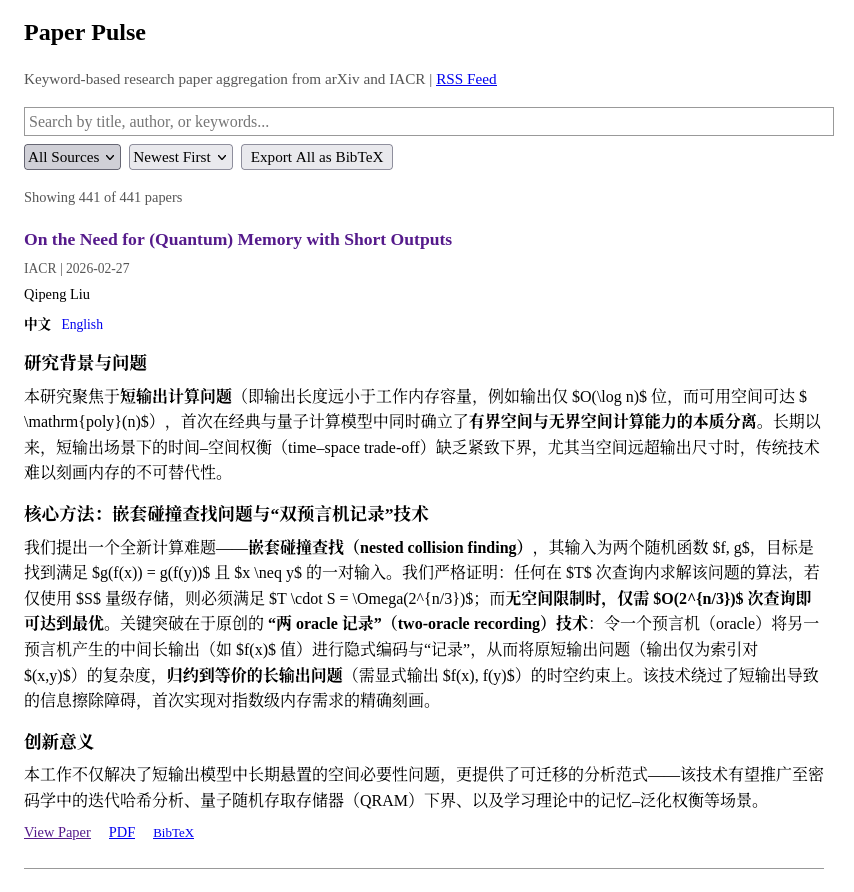
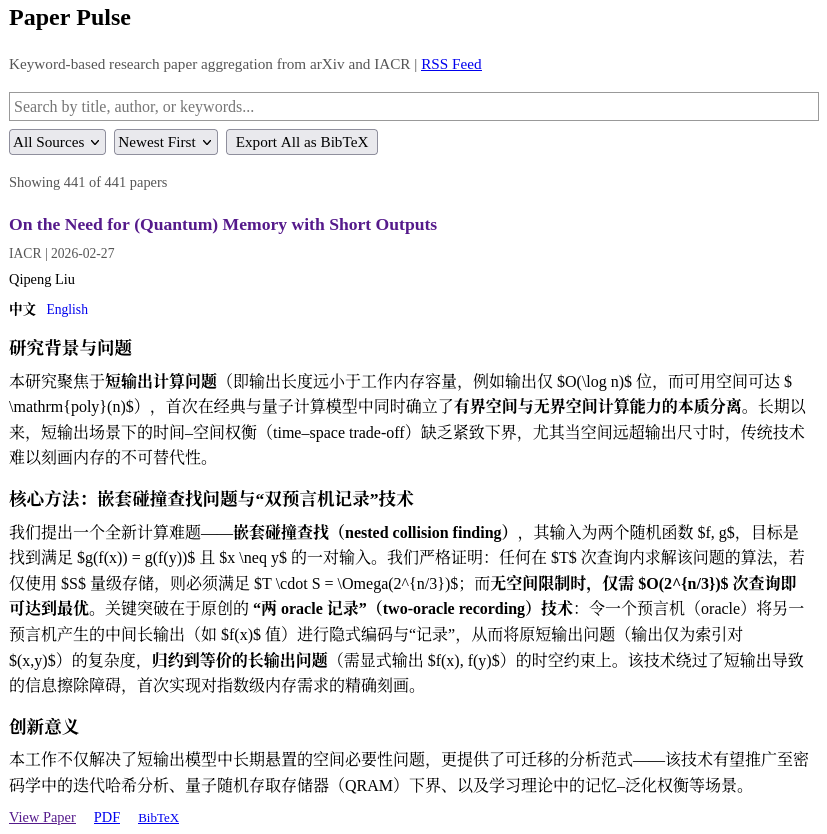
docs: remove hr separators from READMEs, update screenshot

Changed region(s): [[0.0, 0.0, 0.9674, 0.9976], [0.9674, 0.1247, 0.9976, 0.1559]]

diff --git a/README.md b/README.md
@@ -6,8 +6,6 @@
 
 ![Paper Pulse Screenshot](docs/screenshot.png)
 
----
-
 ## Why Paper Pulse?
 
 - Tired of manually checking arXiv every day? Paper Pulse fetches papers automatically.

diff --git a/README_CN.md b/README_CN.md
@@ -6,8 +6,6 @@
 
 ![Paper Pulse 截图](docs/screenshot.png)
 
----
-
 ## 为什么选择 Paper Pulse？
 
 - 每天手动刷 arXiv 太累？Paper Pulse 自动帮你抓取。
